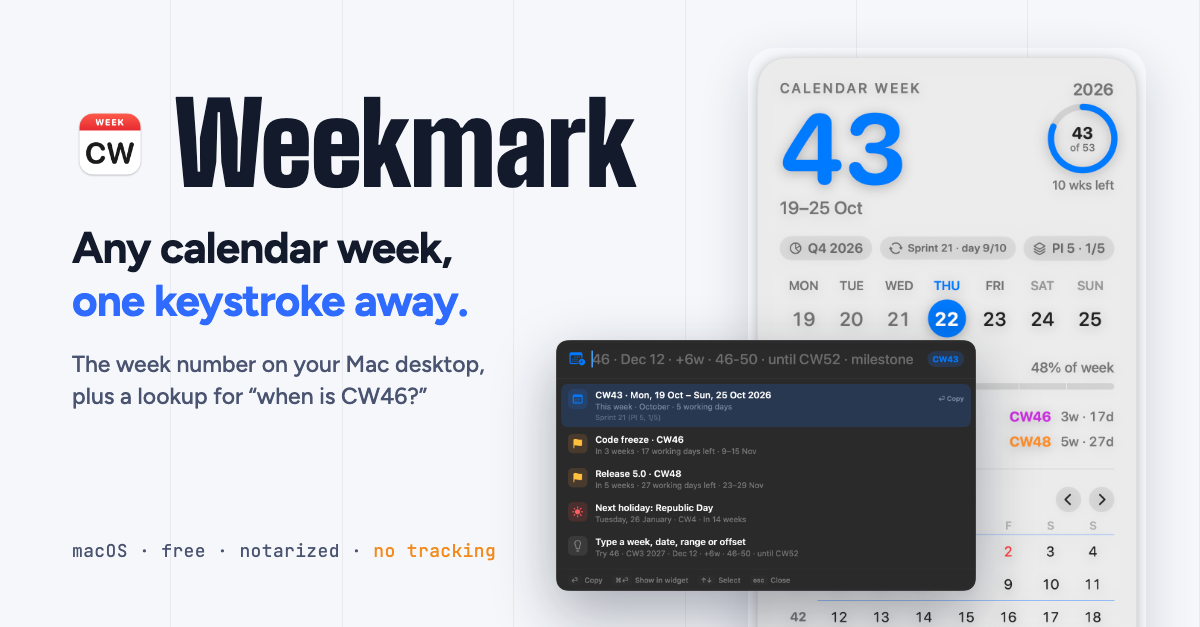
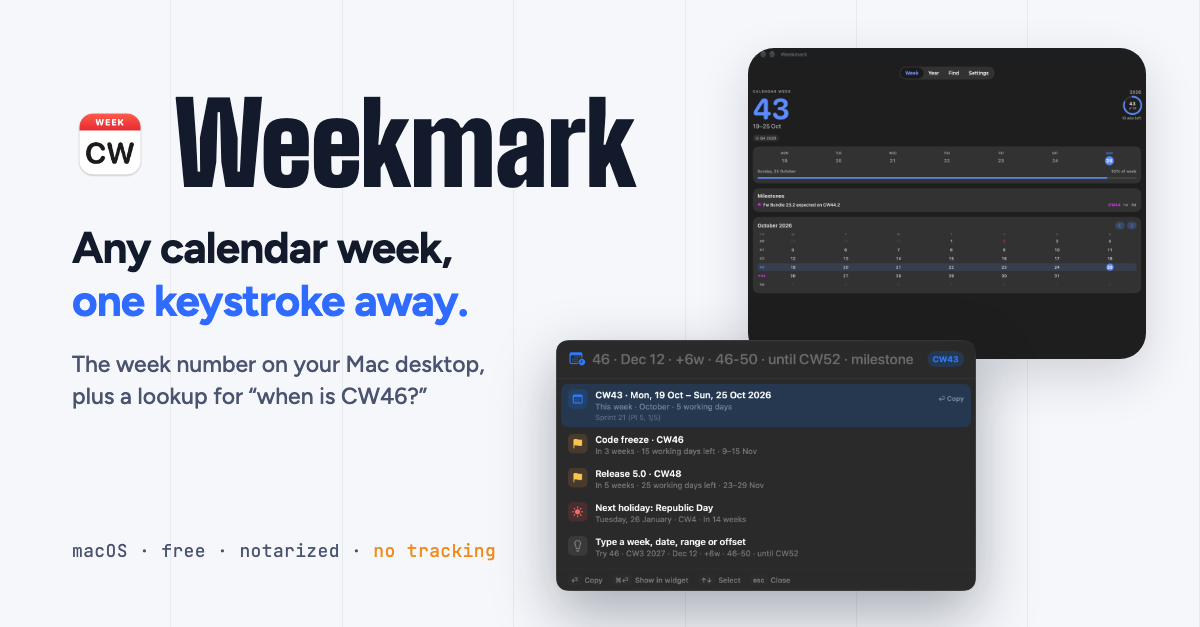
Release 1.2: appcast, cask mirror, screenshots

diff --git a/docs/Weekmark-1.2.html b/docs/Weekmark-1.2.html
@@ -1,0 +1,6 @@
+<!doctype html><meta charset="utf-8"><style>:root{color-scheme:light dark}body{font:13px -apple-system,system-ui,sans-serif;margin:12px 16px;line-height:1.45}h2{font-size:15px;margin:0 0 8px}ul{padding-left:18px;margin:0}li{margin:0 0 6px}code{font:12px ui-monospace,Menlo,monospace}</style>
+<h2>Weekmark 1.2</h2>
+<ul>
+<li><strong>Year at a Glance.</strong> See the whole year at once: all 12 months with the week number on every row, with today, the current week, holidays, milestones and sprint starts marked. Open it with the new calendar button above the widget&#x27;s month, or from the menu bar. Hover a week for its dates and working days, click to pin it, ⌘C to copy it, and ← → to change the year.</li>
+<li><strong>Week numbers in any calendar.</strong> Not everyone on your team has a Mac: they can subscribe to a free calendar that shows “CW 46” every Monday in Google Calendar, Outlook or Apple Calendar. Find it at <a href="https://rockykusuma.github.io/weekmark/weeks/">rockykusuma.github.io/weekmark/weeks</a>.</li>
+</ul>

diff --git a/packaging/homebrew/weekmark.rb b/packaging/homebrew/weekmark.rb
@@ -2,8 +2,8 @@
 # Install: brew install --cask rockykusuma/weekmark/weekmark
 
 cask "weekmark" do
-  version "1.1"
[1 lines of base64/hex data omitted]
+  version "1.2"
[1 lines of base64/hex data omitted]
 
   url "https://github.com/rockykusuma/weekmark/releases/download/v#{version}/Weekmark-#{version}.dmg"
   name "Weekmark"
